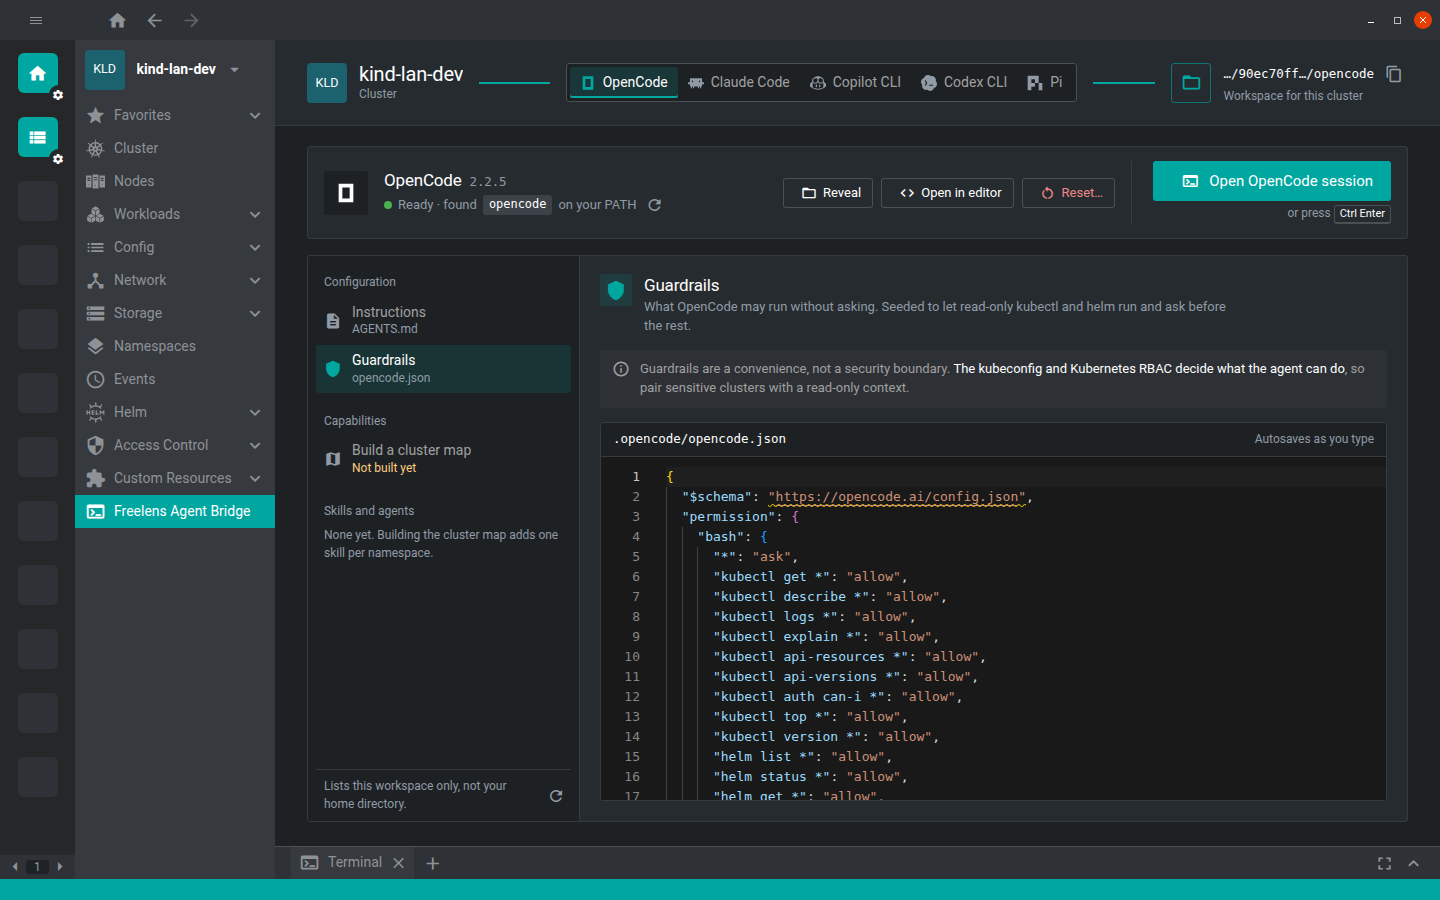
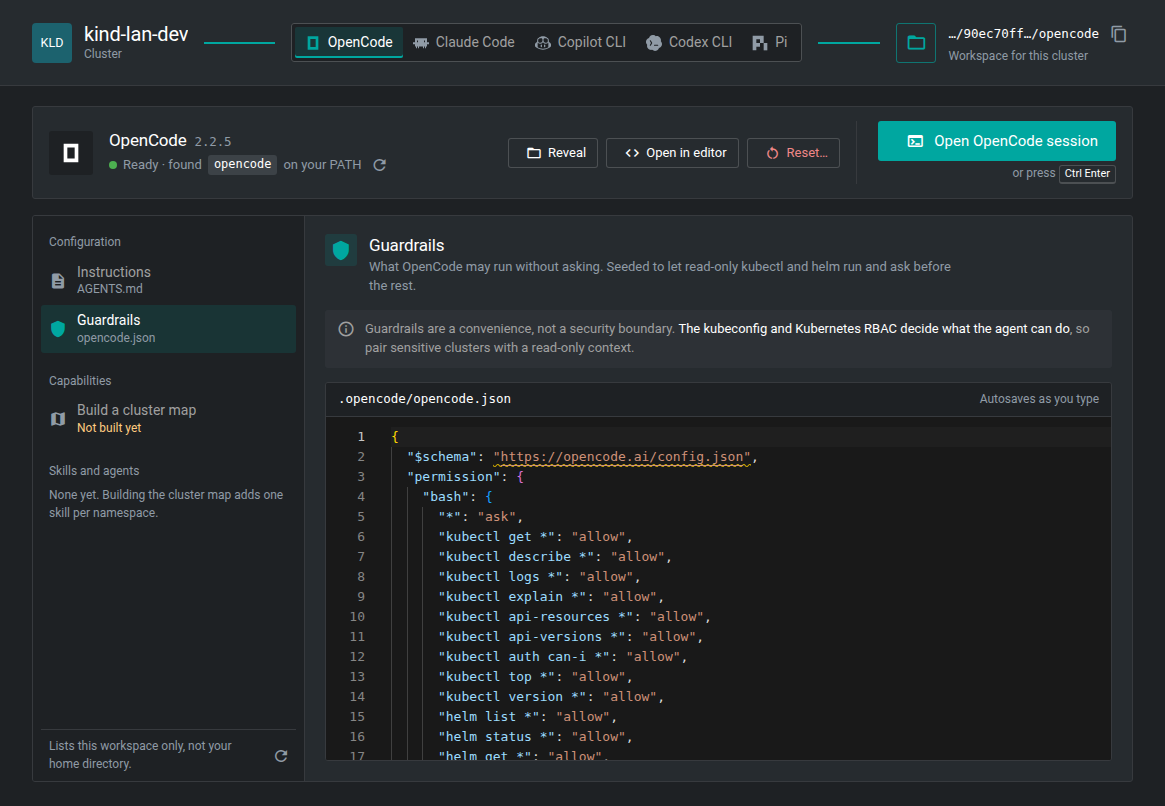
Refresh the README with the revised UI and new demos
Replace the 1.x screenshots and demo videos with captures of the revised
page in Freelens 2 (dark theme): a demo GIF from a first visit to an
OpenCode answer, an incident GIF where the agent diagnoses and fixes a
broken deployment after approval, a real session in the dock, and a
gallery of the explorer, Reset and not-installed views.

Changed region(s): [[0.0, 0.0, 1.0, 1.0], [0.8343, 0.4653, 0.9579, 0.5273]]

diff --git a/README.md b/README.md
@@ -13,7 +13,7 @@ cluster, one click away.**
 [![License: MIT](https://img.shields.io/github/license/freelensapp/freelens-agentbridge-extension)](./LICENSE)
 
 [Quick start](#quick-start) ·
-[Demos](#screenshots--demos) ·
+[Screenshots](#screenshots) ·
 [How it works](#how-it-works) ·
 [Configuration](docs/guide/configuration.md)
 
@@ -23,10 +23,11 @@ Pick OpenCode, Claude Code, GitHub Copilot CLI, OpenAI Codex CLI, or Pi per
 cluster, click **Open session**, and the agent starts in a docked Freelens
 terminal with `KUBECONFIG` already pointed at the cluster you're looking at.
 
-https://github.com/user-attachments/assets/12e1571c-4ac2-42cc-82fb-cd6d5d245213
+![Demo: opening AgentBridge on a cluster, picking OpenCode, opening a session, and asking which pods have no resource limits](docs/images/agentbridge-demo.gif)
 
-_The agent finds an `OOMKilled` pod, proposes a new memory limit, and asks
-before applying it._
+_From the cluster to an answer, with the agent's work sped up 3×. Its piped
+`kubectl … | jq` commands are not on the read-only allow list, so the
+guardrails stop them for approval first._
 
 ## Why AgentBridge
 
@@ -77,6 +78,8 @@ supported only by the 1.x releases of this extension.
 
 Repeat on any other cluster: every workspace is independent.
 
+![The first visit to a cluster: pick a provider in the strip at the top](docs/images/agentbridge-intro.png)
+
 <details>
 <summary>Installing from a release tarball</summary>
 
@@ -101,17 +104,54 @@ Summarize the warning events from the last hour and group them by cause.
 Read-only commands such as `kubectl get`, `describe`, and `logs` run
 immediately. Anything that changes the cluster waits for your approval.
 
-## Screenshots & demos
+## Screenshots
 
-| Session                                                              | AgentBridge page                                                        |
-| -------------------------------------------------------------------- | ----------------------------------------------------------------------- |
-| ![Agent session in a Freelens terminal](docs/images/agentbridge-session.jpg) | ![AgentBridge page with provider selection](docs/images/agentbridge-homepage.png) |
+### The page
 
-![Editing OpenCode guardrails in Freelens](docs/images/opencode-permission-settings.png)
+The bridge strip at the top links the cluster, the provider, and its
+workspace. Below it, the workspace explorer lists what the agent reads, what it
+may do, and what it has learned; the selected item opens on the right.
 
-The agent fixes a missing secret that crashes the pod:
+![The AgentBridge page in Freelens: OpenCode selected for the kind-lan-dev cluster, ready to open a session, with its instructions file open in the workspace explorer](docs/images/agentbridge-homepage.png)
 
-https://github.com/user-attachments/assets/3e404238-8e21-4363-ad9f-783a9bd41790
+### A session in the dock
+
+**Open session** starts the CLI in a Freelens terminal tab, inside the
+workspace and against the cluster on screen, while the page stays in view.
+
+![An OpenCode session in the Freelens dock, listing the pods that have no resource limits](docs/images/agentbridge-session.png)
+
+### An incident, end to end
+
+One prompt, from a crash-looping deployment to a verified fix. The agent reads
+logs, events, and endpoints on its own, then stops for approval before each
+change.
+
+![Demo: an OpenCode session asked why the checkout pods in shop-demo keep restarting. It reads the logs, events, and endpoints, finds a misspelled ConfigMap key and a Service selector that matches no pods, patches both after approval, restarts the rollout, and verifies it](docs/images/agentbridge-incident.gif)
+
+_A synthetic incident in a throwaway namespace on a local kind cluster, with
+the agent's work sped up 6× and its change approvals in real time. It found
+two causes: the app needs `PAYMENT_API_URL`, but its ConfigMap spelled the key
+`PAYMENT_API_URI`, and the `checkout` Service selected no pods. It patched
+both, restarted the rollout, checked the endpoints and the storefront, and
+noted that the same fixes belong in the manifests._
+
+### Guardrails
+
+Edited in place with autosave: read-only `kubectl` and `helm` run, everything
+else asks first.
+
+![The OpenCode guardrails open in the workspace explorer, with the reminder that RBAC is the security boundary](docs/images/opencode-permission-settings.png)
+
+### More of the page
+
+| Build a cluster map                                                                                                   | Skills the agent wrote                                                                                              |
+| --------------------------------------------------------------------------------------------------------------------- | ------------------------------------------------------------------------------------------------------------------- |
+| ![The Build a cluster map capability, built, with its command ready to copy](docs/images/agentbridge-cluster-map.png) | ![A namespace map skill written in a session, with its path](docs/images/agentbridge-skill.png)                     |
+| One command maps the cluster into a skill per namespace, so later sessions start already knowing it.                  | Every skill and agent in the workspace is listed, newest first, with where it came from.                            |
+| **Reset, with the exact paths**                                                                                       | **A missing CLI is never installed for you**                                                                        |
+| ![The Reset confirmation listing the files it restores](docs/images/agentbridge-reset.png)                            | ![Claude Code not installed, with the installation guide one click away](docs/images/agentbridge-not-installed.png) |
+| The confirmation names every file it puts back; instructions and skills stay as they are.                             | AgentBridge only checks the `PATH`, then links the official installation guide.                                     |
 
 ## How it works
 

diff --git a/GOTCHAS.md b/GOTCHAS.md
@@ -61,3 +61,8 @@ Each entry: `- YYYY-MM-DD: <one-line gotcha>. Fix: <one-line fix or workaround>`
 - 2026-11-04: Inputs inside a `<fieldset disabled>` are disabled, but their `disabled` property stays `false`, so a test asserting it fails on a correctly disabled control. Fix: assert `element.matches(":disabled")`.
 - 2026-11-04: `impeccable detect --cdp` cannot see an extension's cluster page: the page renders in the cluster iframe, which CDP lists as no target of its own and the detector skips. Fix: run `detect` on `src/renderer`, and drive the iframe with Playwright (`contentFrame()`) for screenshots.
 - 2026-11-05: With no desktop session (only the GDM greeter on the machine), Freelens cannot open a window: `--ozone-platform=headless` aborts in GTK, and a `gnome-shell --headless` Xwayland stalls clients forever; and a Freelens started from an agent's shell quits when the command returns, because the tool kills the process group. Fix: the `freelens` skill's `scripts/start-freelens.sh`, which falls back to Xvfb in a container and starts Freelens with `setsid`.
+- 2026-11-07: Reopening the AgentBridge page (for example after a theme switch) keeps the workspace explorer's last selection while the provider is unchanged, so a capture script waiting for the instructions editor times out. Fix: click the explorer item you want (`getByRole("button", { name: /^Instructions/ })`) before each capture.
+- 2026-11-07: To record the page, a CDP `Page.startScreencast` (from Playwright's `newCDPSession`) sees the cluster frame, but it sends frames only when something repaints, so pauses vanish from a video built at fixed frame rate. Fix: repaint on a timer and encode with each frame's `metadata.timestamp` (ffmpeg concat with durations). The screencast shows no pointer: draw one in the root document.
+- 2026-11-08: Renderer `localStorage` (and other per-origin storage) does not persist in Freelens 2: every renderer origin (`https://renderer.freelens.app:<port>`, `https://<clusterId>.renderer.freelens.app:<port>`) carries the freelens-proxy port, which the OS picks fresh on each start (`listen(0)`), and Freelens clears `localStorage` at startup (`clear-local-storage.injectable.ts`). Fix: persist in main under `userData` and reach it over IPC, as `src/main/provider-selection-store.ts` does.
+- 2026-11-08: `start-freelens.sh --desktop` can hang with no window and an empty `freelens.log` (main loops on the Wayland socket, likely while the screen is locked). Fix: use `--hidden`, and kill the stuck process yourself; `stop-freelens.sh` only knows the pid it recorded.
+- 2026-11-08: When scripting OpenCode sessions for recordings: OpenCode 2.x reopens the session tabs left by earlier runs in the same workspace, and Freelens' dock can be resized only while it is open. Fix: close old OpenCode tabs (`ctrl+x w`) and resize the dock with a tab open before recording.

diff --git a/docs/images/SOURCES.md b/docs/images/SOURCES.md
@@ -1,7 +1,21 @@
 # Image sources
 
-| File | What it shows | Source |
-| --- | --- | --- |
-| `agentbridge-homepage.png` | The AgentBridge page, OpenCode ready, instructions open, dark theme | Screenshot of Freelens 2.0.1 (dev build) with this extension, cluster `kind-lan-dev`, 1440 × 900, captured 2026-11-05 |
-| `opencode-permission-settings.png` | The OpenCode guardrails open in the explorer, dark theme | Same capture session as above |
-| `agentbridge-session.jpg` | A GitHub Copilot CLI session in the Freelens dock | Screenshot from the 1.x line, kept for the session itself |
+Captured from Freelens 2.0.0 with this extension built from `main` (unreleased
+UI after v2.0.0) and installed as a directory, cluster `kind-lan-dev`, dark
+theme, a 1440 × 900 window, on 2026-11-07. The cropped images show the
+extension page only, without the Freelens chrome. The skills in the cluster
+map and skill captures are synthetic, written into the workspace for the
+screenshots; the session and the demo are a real OpenCode 2.2.5 session.
+
+| File | What it shows |
+| --- | --- |
+| `agentbridge-demo.gif` | The demo: open the page, pick OpenCode, browse the explorer, open a session, ask which pods have no resource limits. Recorded with a CDP screencast and an on-page cursor; the agent's work plays at 3× speed. 1080 px wide, 10 fps |
+| `agentbridge-incident.gif` | The incident demo, recorded on 2026-11-08 in the same way: pick OpenCode, open a session, ask why the checkout pods in `shop-demo` keep restarting; the agent diagnoses, patches, restarts and verifies, then the dock goes fullscreen on its summary. `shop-demo` is synthetic: a namespace created for the recording with a misspelled ConfigMap key and a Service selector matching no pods, deleted afterwards. The recorder approved only read-only commands and changes scoped to `shop-demo`. The agent's work plays at 6× speed (4 fps), the first permission prompt and each change approval in real time (10 fps). 1080 px wide |
+| `agentbridge-homepage.png` | The AgentBridge page, OpenCode ready, instructions open, full window |
+| `agentbridge-session.png` | The OpenCode session in the dock with its answer, full window |
+| `opencode-permission-settings.png` | The OpenCode guardrails open in the explorer, cropped |
+| `agentbridge-intro.png` | The first visit to a cluster, no provider picked yet, cropped |
+| `agentbridge-cluster-map.png` | "Build a cluster map", built, with its seeded command, cropped |
+| `agentbridge-skill.png` | A namespace map skill selected in the explorer, cropped |
+| `agentbridge-reset.png` | The Reset confirmation listing the files it restores, cropped |
+| `agentbridge-not-installed.png` | Claude Code selected but not on the `PATH`, cropped |

diff --git a/PRODUCT.md b/PRODUCT.md
@@ -72,7 +72,7 @@ cluster map skills) that outlives every session.
 
 ## Evidence on Hand
 
-- docs/images/: page and session screenshots; README demo videos.
+- docs/images/: page and session screenshots; the README demo GIF.
 - No customer quotes, metrics or benchmarks; none may be invented.
 
 ## Product Principles
